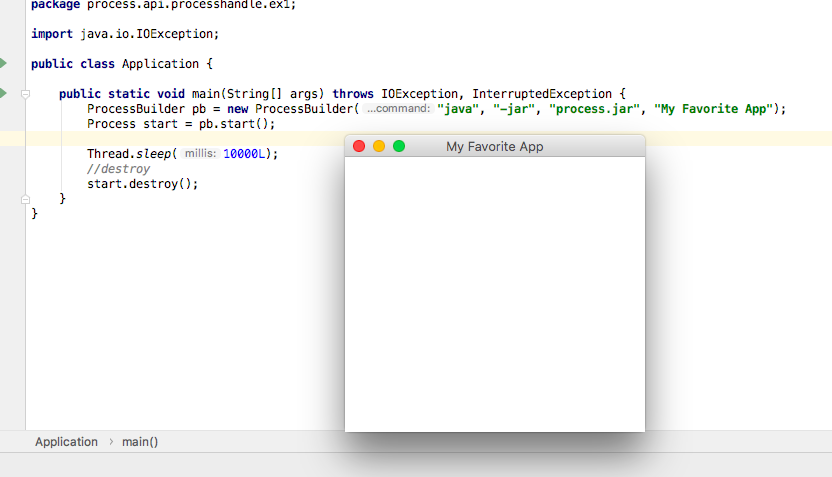
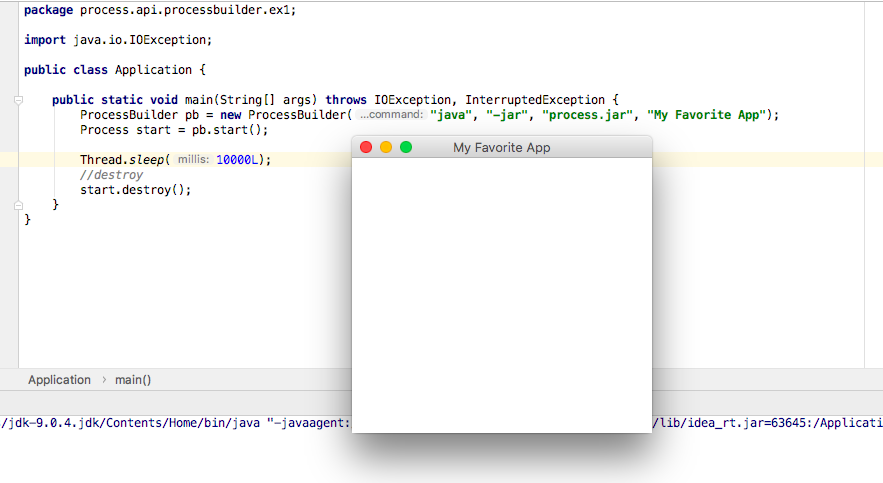
add more example process api

diff --git a/java9/process-api/src/process/api/processbuilder/ex1/Application.java b/java9/process-api/src/process/api/processbuilder/ex1/Application.java
@@ -1,24 +1,15 @@
 package process.api.processbuilder.ex1;
 
+import java.io.IOException;
+
 public class Application {
 
-    public static void main(String[] args) {
-        ProcessHandle phCurrent = ProcessHandle.current();
+    public static void main(String[] args) throws IOException, InterruptedException {
+        ProcessBuilder pb = new ProcessBuilder("java", "-jar", "process.jar", "My Favorite App");
+        Process start = pb.start();
 
-        System.out.println(" Current PID: " + phCurrent.pid());
-
-        System.out.println("\n Get snapshot of the process info");
-        System.out.println(phCurrent.info());
-
-        System.out.println("\n Get user: " + phCurrent.info().user().get());
-
-        System.out.println("\n Get command: " + phCurrent.info().command().get());
-
-        System.out.println("\n Get command line: " + phCurrent.info().commandLine().get());
-
-        System.out.println("\n Get arguments: ");
-        for (int i = 0; i < phCurrent.info().arguments().get().length; i++) {
-            System.out.println(phCurrent.info().arguments().get()[i]);
-        }
+        Thread.sleep(10000L);
+        //destroy
+        start.destroy();
     }
 }

diff --git a/java9/process-api/src/process/api/processhandle/ex1/Application.java b/java9/process-api/src/process/api/processhandle/ex1/Application.java
@@ -1,15 +1,24 @@
 package process.api.processhandle.ex1;
 
-import java.io.IOException;
-
 public class Application {
 
-    public static void main(String[] args) throws IOException, InterruptedException {
-        ProcessBuilder pb = new ProcessBuilder("java", "-jar", "process.jar", "My Favorite App");
-        Process start = pb.start();
+    public static void main(String[] args) {
+        ProcessHandle phCurrent = ProcessHandle.current();
 
-        Thread.sleep(10000L);
-        //destroy
-        start.destroy();
+        System.out.println(" Current PID: " + phCurrent.pid());
+
+        System.out.println("\n Get snapshot of the process info");
+        System.out.println(phCurrent.info());
+
+        System.out.println("\n Get user: " + phCurrent.info().user().get());
+
+        System.out.println("\n Get command: " + phCurrent.info().command().get());
+
+        System.out.println("\n Get command line: " + phCurrent.info().commandLine().get());
+
+        System.out.println("\n Get arguments: ");
+        for (int i = 0; i < phCurrent.info().arguments().get().length; i++) {
+            System.out.println(phCurrent.info().arguments().get()[i]);
+        }
     }
 }

diff --git a/java9/process-api/src/process/api/processhandle/ex2/Application.java b/java9/process-api/src/process/api/processhandle/ex2/Application.java
@@ -5,12 +5,19 @@ import java.util.Optional;
 public class Application {
 
     public static void main(String[] args) {
-        Optional<ProcessHandle> optPh = ProcessHandle.of(301);
-        if (optPh.isPresent()) {
-            System.out.println(" PID: " + optPh.get().pid());
-            System.out.println(" Total CPU Duration: " + optPh.get().info().totalCpuDuration());
-            System.out.println("Destroy application");
-            optPh.get().destroy();
-        }
+        ProcessHandle phCurrent = ProcessHandle.current();
+        dumpProcessInfo(phCurrent);
+    }
+
+    public static void dumpProcessInfo(ProcessHandle ph) {
+        ProcessHandle.Info info = ph.info();
+        Optional<ProcessHandle> phParent = ph.parent();
+        Long parentPID = 0L;
+
+        if (phParent.isPresent())
+            parentPID = phParent.get().pid();
+
+        System.out.printf("[%d] [%d] %s : %s\n", ph.pid(), parentPID,
+                info.user().orElse("Unknown"), info.command().orElse("None"));
     }
 }

diff --git a/java9/process-api/src/process/api/processhandle/ex3/Application.java b/java9/process-api/src/process/api/processhandle/ex3/Application.java
@@ -1,0 +1,16 @@
+package process.api.processhandle.ex3;
+
+import java.util.Optional;
+
+public class Application {
+
+    public static void main(String[] args) {
+        Optional<ProcessHandle> optPh = ProcessHandle.of(301);
+        if (optPh.isPresent()) {
+            System.out.println(" PID: " + optPh.get().pid());
+            System.out.println(" Total CPU Duration: " + optPh.get().info().totalCpuDuration());
+            System.out.println("Destroy application");
+            optPh.get().destroy();
+        }
+    }
+}

diff --git a/java9/process-api/README.md b/java9/process-api/README.md
@@ -1,4 +1,44 @@
 # process-api
 
-### Process start jar
+### ProcessHandle get current
+```
+public class Application {
+
+    public static void main(String[] args) {
+        ProcessHandle phCurrent = ProcessHandle.current();
+
+        System.out.println(" Current PID: " + phCurrent.pid());
+
+        System.out.println("\n Get snapshot of the process info");
+        System.out.println(phCurrent.info());
+
+        System.out.println("\n Get user: " + phCurrent.info().user().get());
+
+        System.out.println("\n Get command: " + phCurrent.info().command().get());
+
+        System.out.println("\n Get command line: " + phCurrent.info().commandLine().get());
+
+        System.out.println("\n Get arguments: ");
+        for (int i = 0; i < phCurrent.info().arguments().get().length; i++) {
+            System.out.println(phCurrent.info().arguments().get()[i]);
+        }
+    }
+}
+```
+
+### ProcessHandle start jar
 ![](image.png)
+
+
+### ProcessHandle kill specific pid
+```
+    public static void main(String[] args) {
+        Optional<ProcessHandle> optPh = ProcessHandle.of(301);
+        if (optPh.isPresent()) {
+            System.out.println(" PID: " + optPh.get().pid());
+            System.out.println(" Total CPU Duration: " + optPh.get().info().totalCpuDuration());
+            System.out.println("Destroy application");
+            optPh.get().destroy();
+        }
+    }
+```
